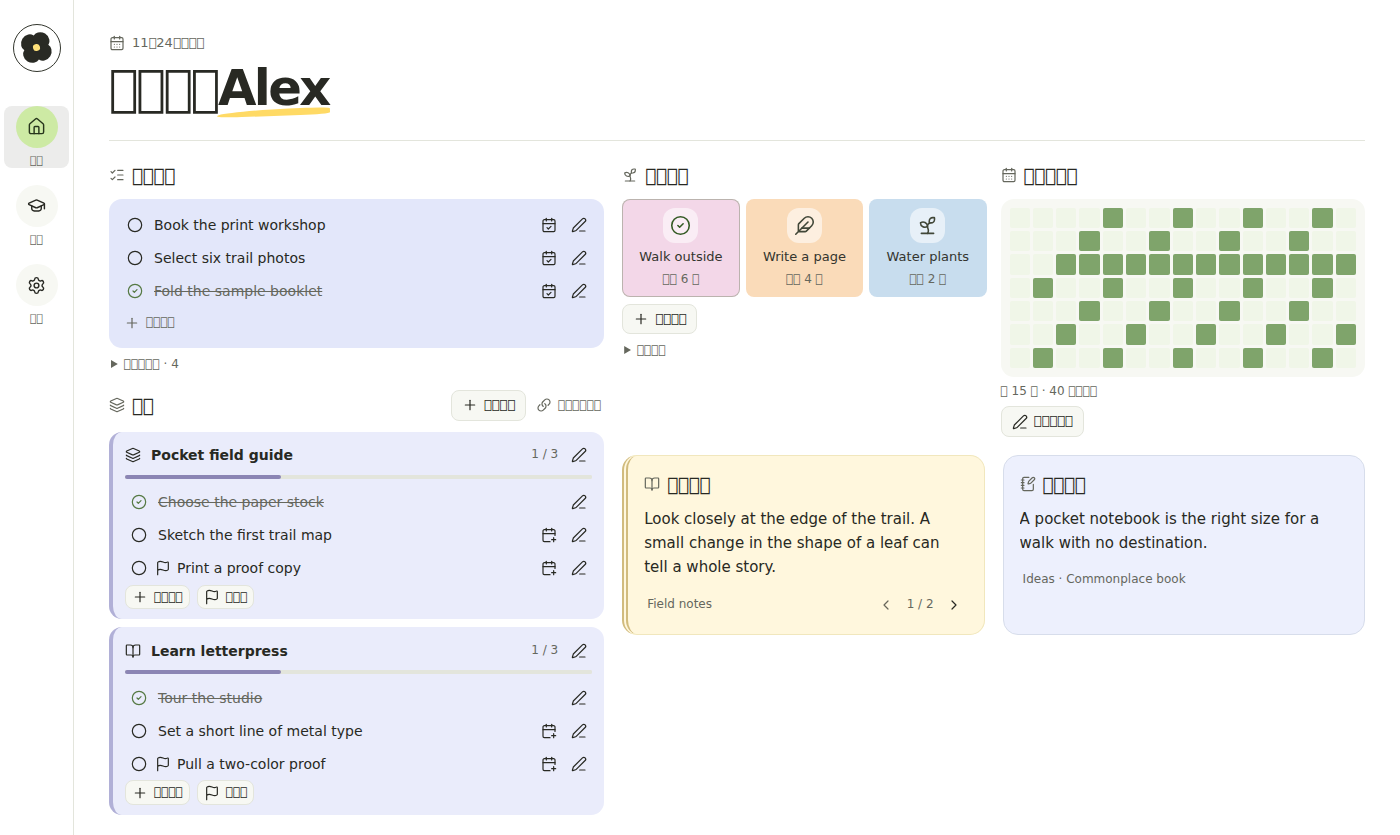
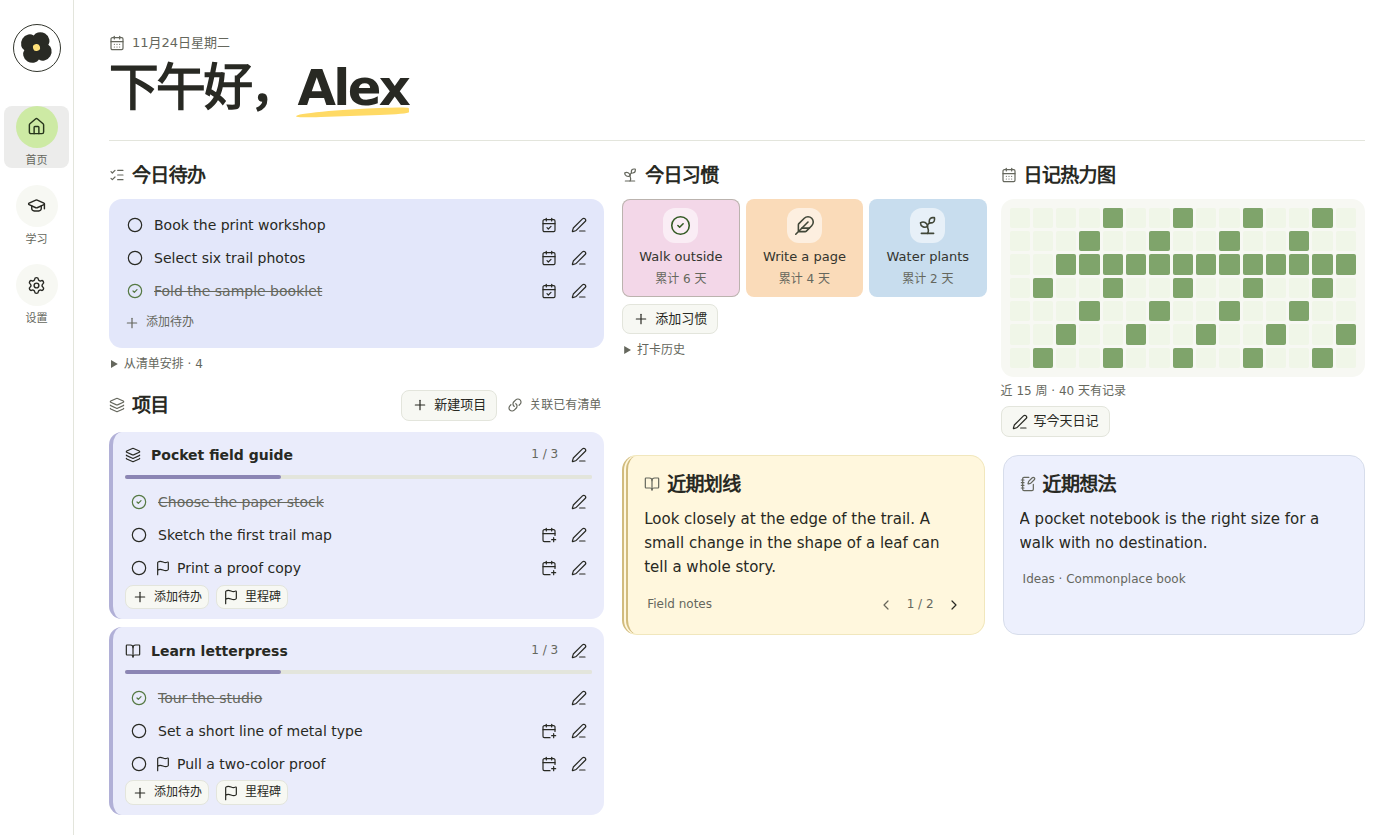
Show a recovery action for ambiguous dates and refresh bilingual screenshots

diff --git a/src/main.js b/src/main.js
@@ -484,7 +484,7 @@ export default class DoraDashboard extends Plugin {
     if (!opened) {
       try { opened = await this.notes.diary(cfg, day); }
       catch (error) {
-        if (!["Close the properties block in the source note first", "Close the open properties, code block or comment in the original journal"].includes(error.message)) throw error;
+        if (!["Close the properties block in the source note first", "Close the open properties, code block or comment in the original journal", "Open the original note to edit this ambiguous date heading"].includes(error.message)) throw error;
         form(this, day, [], () => this.openNote(this.notes.journalPath(cfg, day)),
           { text: this.errorText(error), submit: this.t("Open original note", "打开原文") });
         return;

diff --git a/src/dashboard.js b/src/dashboard.js
@@ -443,6 +443,7 @@ export class BoardView extends ItemView {
     const missing = this.t("This task or destination is no longer here. Your draft is still available.", "这条待办或写入位置已变化，你仍可复制草稿。");
     const copy = button(form, this.t("Copy draft", "复制草稿"), async () => {
       await input.ownerDocument.defaultView.navigator.clipboard.writeText(input.value);
+      copy.textContent = this.t("Draft copied", "已复制草稿");
     });
     copy.hidden = true;
     this.setInlineAvailable = present => {
